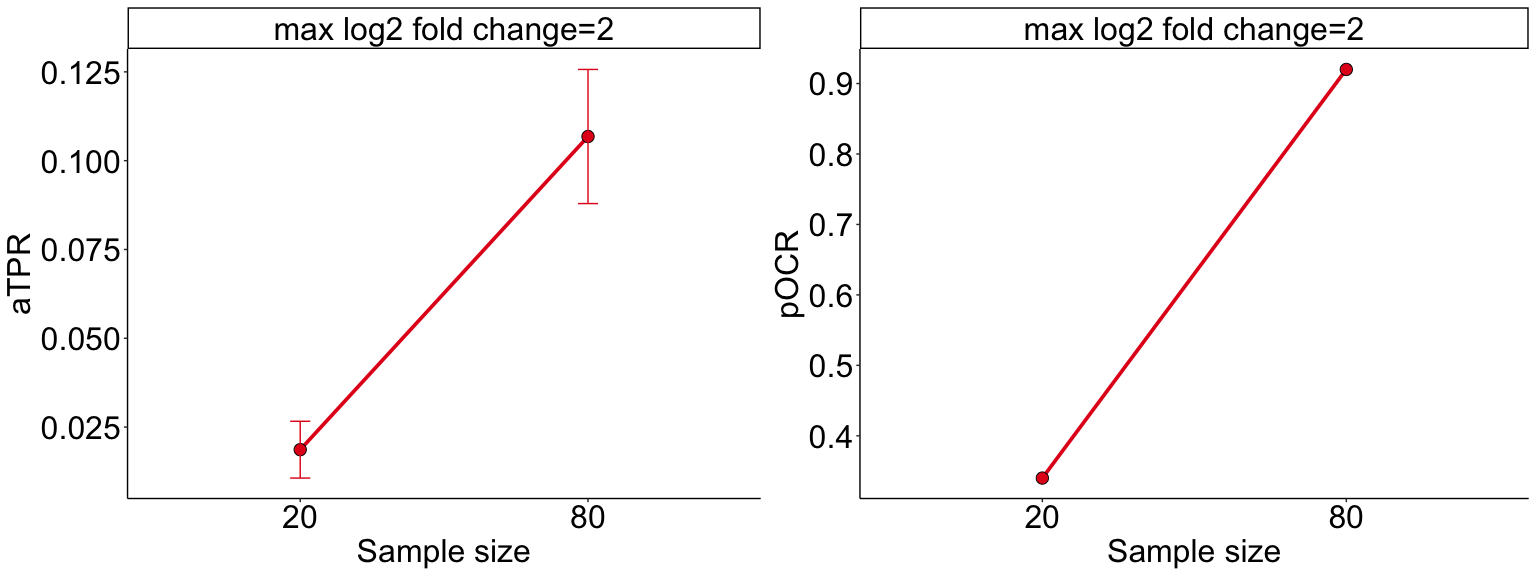
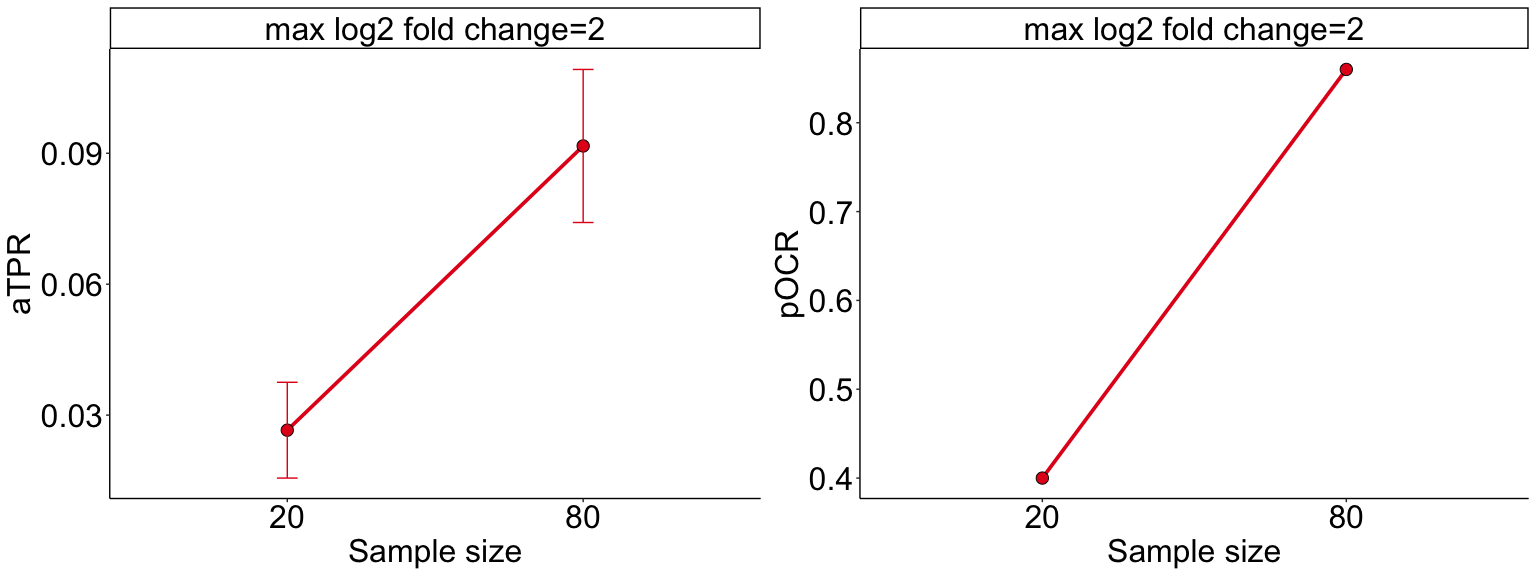
update

diff --git a/README.md b/README.md
@@ -4,9 +4,7 @@ Design
 2024-07-17
 
 This package estimates the power for microbiome study design based on
-various experimental designs and parameters. For details of the proposed
-method, please refer to the following paper: Lu Yang, Jun Chen. mPower:
-A Real Data-based Power Analysis Tool for Microbiome Study Design
+various experimental designs and parameters.
 
 ![](workflows.png)
 
@@ -34,12 +32,11 @@ needed to achieve 80% community-level and taxa-level power. Assume a log
 2 fold change of 2 based on the literature.
 
 ``` r
-library(reactable) # show table in Markdown
 library(mPower)
 data(feature.dat)
 ```
 
-Exclude features present in fewer than 2 samples
+Preprocessing: exclude features present in fewer than 2 samples.
 
 ``` r
 feature.dat <- feature.dat[rowSums(feature.dat != 0) > 2, ]
@@ -63,18 +60,21 @@ res1 <- mPower(feature.dat = feature.dat, model.paras = model.paras,
                confounder = 'no', depth.mu = 10000, depth.theta = 5, verbose = F)
 ```
 
-##### 2.1.1 Output1: Community-level power table (“power” column indicates community-level power)
+##### 2.1.1 Output1: Community-level power table
+
+“power” column indicates community-level power: the probability of
+rejecting the null hypothesis when the null hypothesis is false.
 
 | Sample size | max log2 fold change | power |        SD |      ymax |      ymin |
 |:------------|:---------------------|------:|----------:|----------:|----------:|
-| 50          | 1                    | 0.370 | 0.4832878 | 0.4123620 | 0.3276380 |
-| 50          | 2                    | 0.754 | 0.4311099 | 0.7917884 | 0.7162116 |
+| 50          | 1                    | 0.386 | 0.4873181 | 0.4287153 | 0.3432847 |
+| 50          | 2                    | 0.748 | 0.4345961 | 0.7860940 | 0.7099060 |
 
-Community-Level Power Table
+##### 2.1.2 Output2: $R^2$ (variance explained) and community-level power curve
 
-##### 2.1.2 Output2: R2 (variance explained) and community-level power curve
-
-![](README_files/figure-gfm/unnamed-chunk-6-1.png)<!-- -->
+$R^2$ is generated from PERMANOVA, denotes the proportion of the total
+variation in the response data that is explained by the explanatory
+variables. ![](README_files/figure-gfm/unnamed-chunk-6-1.png)<!-- -->
 
 #### 2.2 Estimate Taxa-Level Power for Case-Control Study
 
@@ -89,24 +89,60 @@ res2 <- mPower(feature.dat = feature.dat, model.paras = model.paras,
                confounder = 'yes', depth.mu = 100000, depth.theta = 5, verbose = F)
 ```
 
-##### 2.2.1 Output1: Taxa-level power table (“pOCR” column indicates the probability of making at least one correct rejection)
+##### 2.2.1 Output1: Taxa-level power table
+
+“pOCR” indicates the probability of making at least one correct
+rejection, meaning at least one taxon has a FDR-adjusted pvalue less
+than alpha(0.05).
 
 | Sample size | max log2 fold change | pOCR |
 |:------------|:---------------------|-----:|
-| 20          | 2                    | 0.34 |
-| 80          | 2                    | 0.92 |
+| 20          | 2                    | 0.40 |
+| 80          | 2                    | 0.86 |
 
-Taxa-Level Power Table
+##### 2.2.2 Output2: Taxa-level power table
 
-##### 2.2.2 Output2: Taxa-level power table (“aTPR” column indicates the average true positive rate)
+“aTPR” column indicates the average true positive rate. SD(Standard
+deviation) for each setting, i.e., sample size = 20 & max log2 fold
+change =2. ymax and ymin represents the upper and lower bound of the 95%
+confidence interval for the aTPR.
 
 | Sample size | max log2 fold change |      aTPR |        SD |      ymax |      ymin |
 |:------------|:---------------------|----------:|----------:|----------:|----------:|
-| 20          | 2                    | 0.0186403 | 0.0288390 | 0.0266341 | 0.0106466 |
-| 80          | 2                    | 0.1068024 | 0.0681121 | 0.1256821 | 0.0879227 |
-
-Taxa-Level Power Table
+| 20          | 2                    | 0.0265493 | 0.0395909 | 0.0375233 | 0.0155752 |
+| 80          | 2                    | 0.0916704 | 0.0632646 | 0.1092064 | 0.0741344 |
 
 ##### 2.2.3 Output3: aTPR power curve(left) and pOCR power curve(right)
 
 ![](README_files/figure-gfm/unnamed-chunk-10-1.png)<!-- -->
+
+### References
+
+(Yang and Chen 2022, 2023, n.d.)
+
+<div id="refs" class="references csl-bib-body hanging-indent">
+
+<div id="ref-yang2022comprehensive" class="csl-entry">
+
+Yang, Lu, and Jun Chen. 2022. “A Comprehensive Evaluation of Microbial
+Differential Abundance Analysis Methods: Current Status and Potential
+Solutions.” *Microbiome* 10 (1): 130.
+
+</div>
+
+<div id="ref-yang2023benchmarking" class="csl-entry">
+
+———. 2023. “Benchmarking Differential Abundance Analysis Methods for
+Correlated Microbiome Sequencing Data.” *Briefings in Bioinformatics* 24
+(1): bbac607.
+
+</div>
+
+<div id="ref-yang2024mpower" class="csl-entry">
+
+———. n.d. “mPower: A Real Data-Based Power Analysis Tool for Microbiome
+Study Design.”
+
+</div>
+
+</div>
